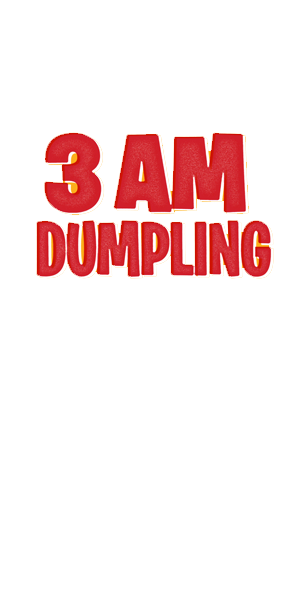
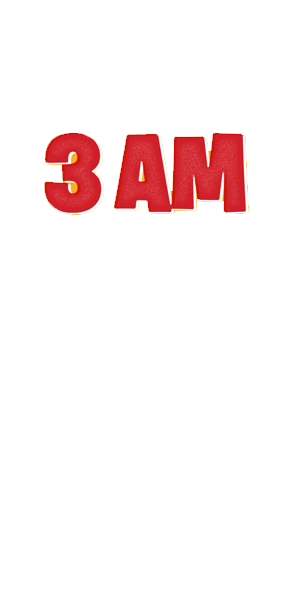
built 300x600

Changed region(s): [[0.12, 0.36, 0.93, 0.48]]

diff --git a/Your Secret/300x600/Animation.js b/Your Secret/300x600/Animation.js
@@ -14,33 +14,24 @@ var home_animation = {
   frame1: function () {
     // == show stars ==
     var i;
-    for (i = 1; i < 8; i++) {
+    for (i = 1; i < 13; i++) {
       var varNew = document.getElementById("star_"+i);
-      TweenLite.to("star_"+i, .5, {opacity:1, delay: .2*i, ease: Expo.easeOut});
+      TweenLite.to("star_"+i, .5, {opacity:1, delay: .1*i, ease: Expo.easeOut});
     }
     TweenLite.to(moon, 0.2, {opacity:1, delay:.8});
     TweenLite.to(building_color, 0.2, {opacity:1, delay:1.2});
     TweenLite.to(your, 0.1, {opacity:1, delay:1.4});
-    TweenLite.to(secret, 0.1, {opacity:1, delay:1.8});
-    TweenLite.to(ThreeAM, 0.1, {opacity:1, delay:2.4});
-    TweenLite.to(dumpling, 0.1, {opacity:1, delay:2.4});
-    TweenLite.to(and, 0.1, {opacity:1, delay:2.8});  
-    TweenLite.to(donuts, 0.1, {opacity:1, delay:3.2});
-    TweenLite.to(order, 0.1, {opacity:1, delay:3.2});
+    TweenLite.to(secret, 0.1, {opacity:1, delay:1.6});
 
-    TweenLite.delayedCall(5, home_animation.frame2);
+    TweenLite.delayedCall(3.5, home_animation.frame2);
   },
   frame2: function () {
     TweenLite.to(building, 0.1, {opacity:0, delay:0});
     TweenLite.to(building_color, 0.1, {opacity:0, delay:0});
     TweenLite.to(your, 0.1, {opacity:0, delay:0});
     TweenLite.to(secret, 0.1, {opacity:0, delay:0});
-    TweenLite.to(moon, 0.1, {opacity:0, delay:0});
-    TweenLite.to(ThreeAM, 0.1, {opacity:0, delay:0});
-    TweenLite.to(dumpling, 0.1, {opacity:0, delay:0});
-    TweenLite.to(and, 0.1, {opacity:0, delay:0});  
+    TweenLite.to(moon, 0.1, {opacity:0, delay:0});  
     TweenLite.to(donuts, 0.1, {opacity:0, delay:0});
-    TweenLite.to(order, 0.1, {opacity:0, delay:0});
     TweenLite.to(star_1, 0.1, {opacity:0, delay:0});
     TweenLite.to(star_2, 0.1, {opacity:0, delay:0});
     TweenLite.to(star_3, 0.1, {opacity:0, delay:0});
@@ -48,14 +39,43 @@ var home_animation = {
     TweenLite.to(star_5, 0.1, {opacity:0, delay:0});
     TweenLite.to(star_6, 0.1, {opacity:0, delay:0});
     TweenLite.to(star_7, 0.1, {opacity:0, delay:0});
+    TweenLite.to(star_8, 0.1, {opacity:0, delay:0});
+    TweenLite.to(star_9, 0.1, {opacity:0, delay:0});
+    TweenLite.to(star_10, 0.1, {opacity:0, delay:0});
+    TweenLite.to(star_11, 0.1, {opacity:0, delay:0});
+    TweenLite.to(star_12, 0.1, {opacity:0, delay:0});
 
     TweenLite.delayedCall(0.2, home_animation.frame3);
   },
   frame3: function () {
+    TweenLite.to(ThreeAM, 0.1, {opacity:1, delay:0});
+    TweenLite.to(dumpling, 0.1, {opacity:1, delay:0.3});
+    TweenLite.to(and, 0.1, {opacity:1, delay:.6}); 
+    TweenLite.to(donuts, 0.1, {opacity:1, delay:.9});
+    TweenLite.to(order, 0.1, {opacity:1, delay:1.2}); 
+    
+    TweenLite.delayedCall(3, home_animation.frame4);
+  },
+  frame4: function () {
+    TweenLite.to(ThreeAM, 0.1, {opacity:0, delay:0});
+    TweenLite.to(and, 0.1, {opacity:0, delay:0});  
+    TweenLite.to(donuts, 0.1, {opacity:0, delay:0});
+    TweenLite.to(dumpling, 0.1, {opacity:0, delay:0});
+    TweenLite.to(order, 0.1, {opacity:0, delay:0});
+
+    TweenLite.delayedCall(0.2, home_animation.frame5);
+  },
+  frame5: function () {
     TweenLite.to(safe, 0.4, {opacity:1, scaleX:1, scaleY:1});
-    TweenLite.to(logo, 0.3, {opacity:1, delay:2.7});
-    TweenLite.to(how, 0.3, {opacity:1, delay:3});
-    TweenLite.to(order_now, 0.3, {opacity:1, top:0, delay:3.2, scaleX:1, scaleY:1});
+
+    TweenLite.delayedCall(2.1, home_animation.frame6);
+  },
+  frame6: function () {
+    TweenLite.to(safe, 0.1, {opacity:0});
+    TweenLite.to(logo, 0.3, {opacity:1, delay:.5});
+    TweenLite.to(how, 0.3, {opacity:1, delay:.7});
+    TweenLite.to(order_now, 0.3, {opacity:1, top:0, delay:.9, scaleX:1, scaleY:1});
+
   }
 };
 // If true, start function. If false, listen for INIT.

diff --git a/Your Secret/300x600/300x600.html b/Your Secret/300x600/300x600.html
@@ -2,8 +2,8 @@
 <html>
 <head>
 <meta charset="UTF-8">
-<meta name="ad.size" content="width=160,height=600">
-<title>160x600</title>
+<meta name="ad.size" content="width=300,height=600">
+<title>300x600</title>
 <link rel="stylesheet" href="style.css">
 </head>
 
@@ -25,11 +25,17 @@
 <div id="star_5"><img src="star_5.png"></div>
 <div id="star_6"><img src="star_6.png"></div>
 <div id="star_7"><img src="star_7.png"></div>
+<div id="star_8"><img src="star_8.png"></div>
+<div id="star_9"><img src="star_9.png"></div>
+<div id="star_10"><img src="star_10.png"></div>
+<div id="star_11"><img src="star_11.png"></div>
+<div id="star_12"><img src="star_12.png"></div>
+<div id="star_13"><img src="star_13.png"></div>
 <div id="ThreeAM"><img src="3am.png"></div>
-<div id="dumpling"><img src="dumpling.png"></div>
-<div id="order"><img src="order.png"></div>
 <div id="donuts"><img src="donuts.png"></div>
 <div id="and"><img src="and.png"></div>
+<div id="order"><img src="order.png"></div>
+<div id="dumpling"><img src="dumpling.png"></div>
 
 <!-- Frame 4 -->
 <div id="safe"><img src="safe.png"></div>

diff --git a/Your Secret/300x600/style.css b/Your Secret/300x600/style.css
@@ -3,7 +3,7 @@
 
 #container {
 	position: absolute;
-	width: 158px;
+	width: 298px;
 	height: 598px;
 	background:#fcae1d;	
 	border:solid;
